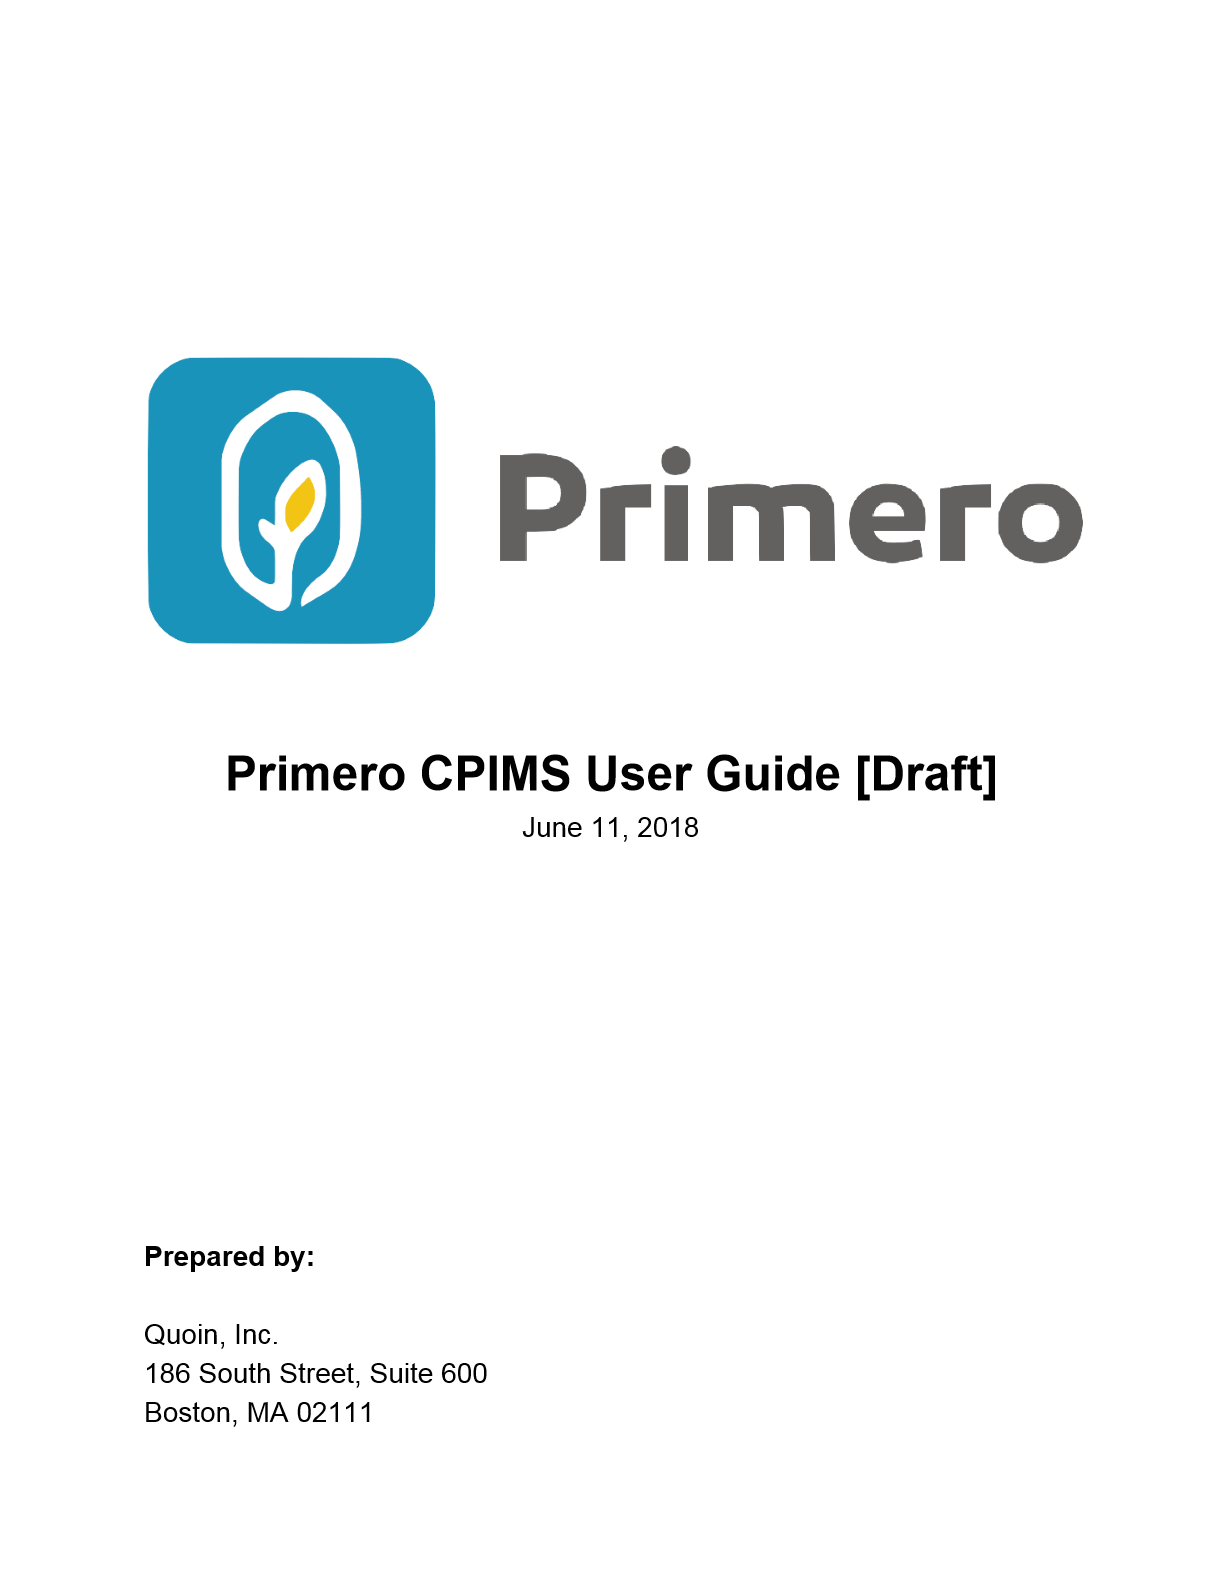
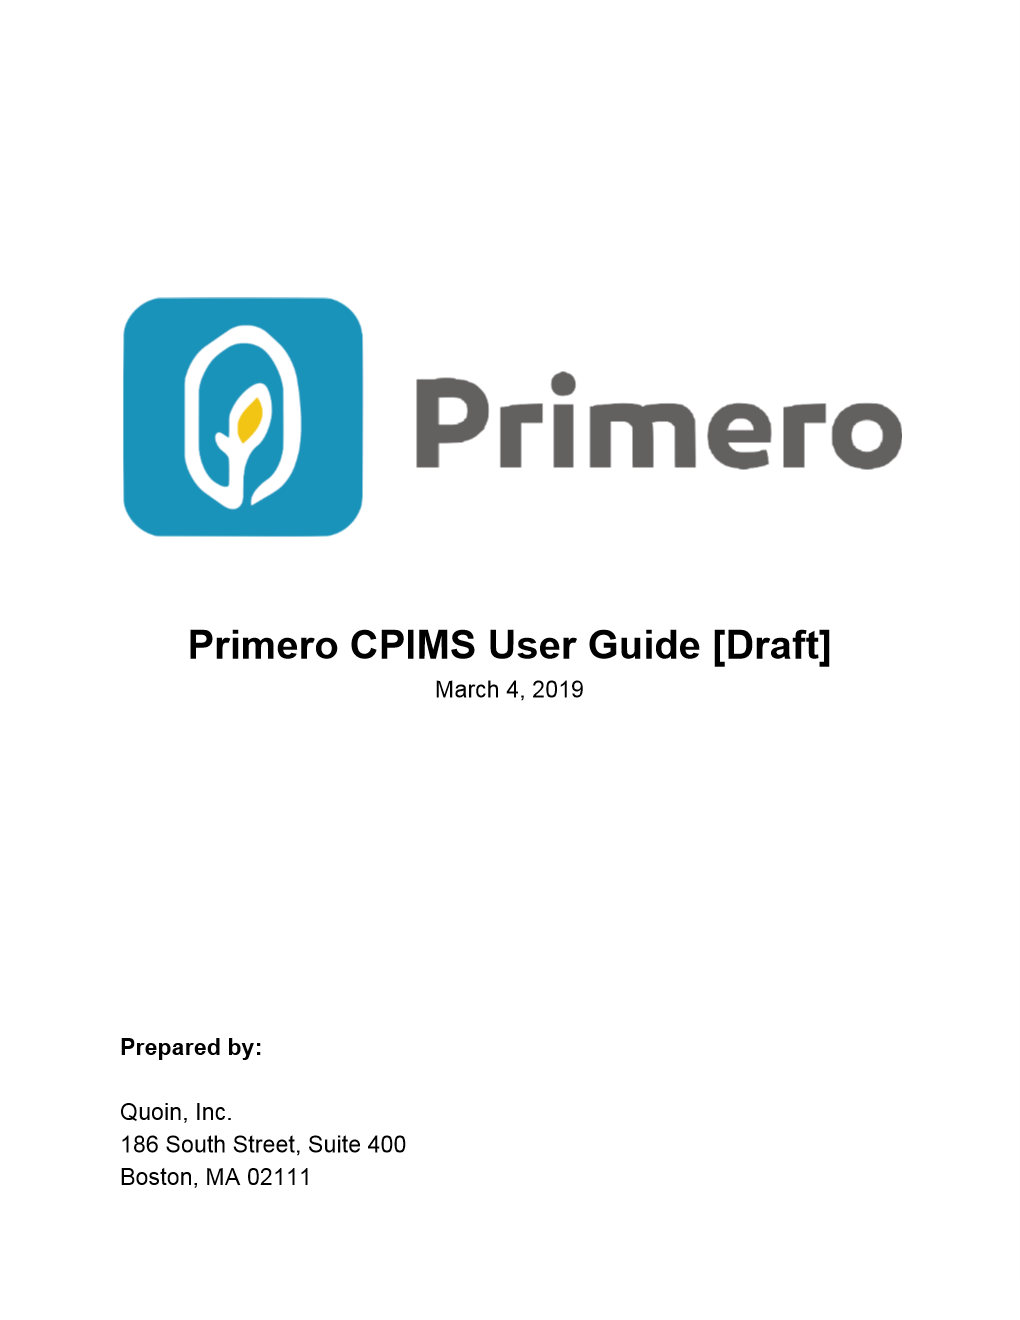
PRIM-594: Updated cover page and Readme for v1.7 updates.

diff --git a/README.md b/README.md
@@ -1,7 +1,7 @@
 
 # Primero CPIMS User Guide [Draft]
 
-June 30, 2017
+March 4, 2019
 
 
 
@@ -30,7 +30,7 @@ June 30, 2017
 
 > <span style="font-variant:small-caps;">Quoin</span>, Inc.
 >
-> 186 South Street, Suite 600
+> 186 South Street, Suite 400
 >
 > Boston, MA 02111
 
